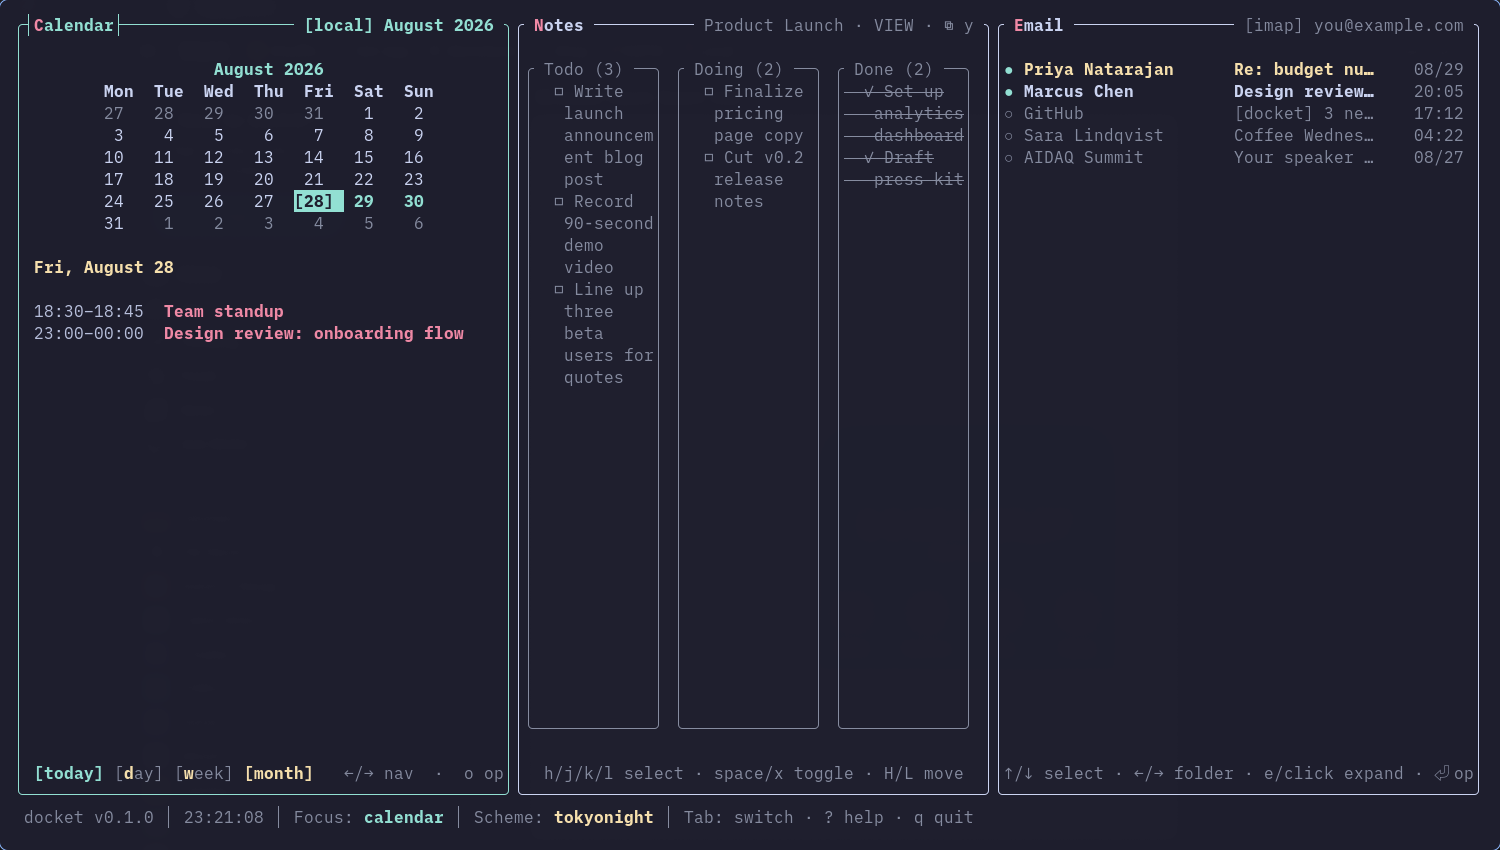
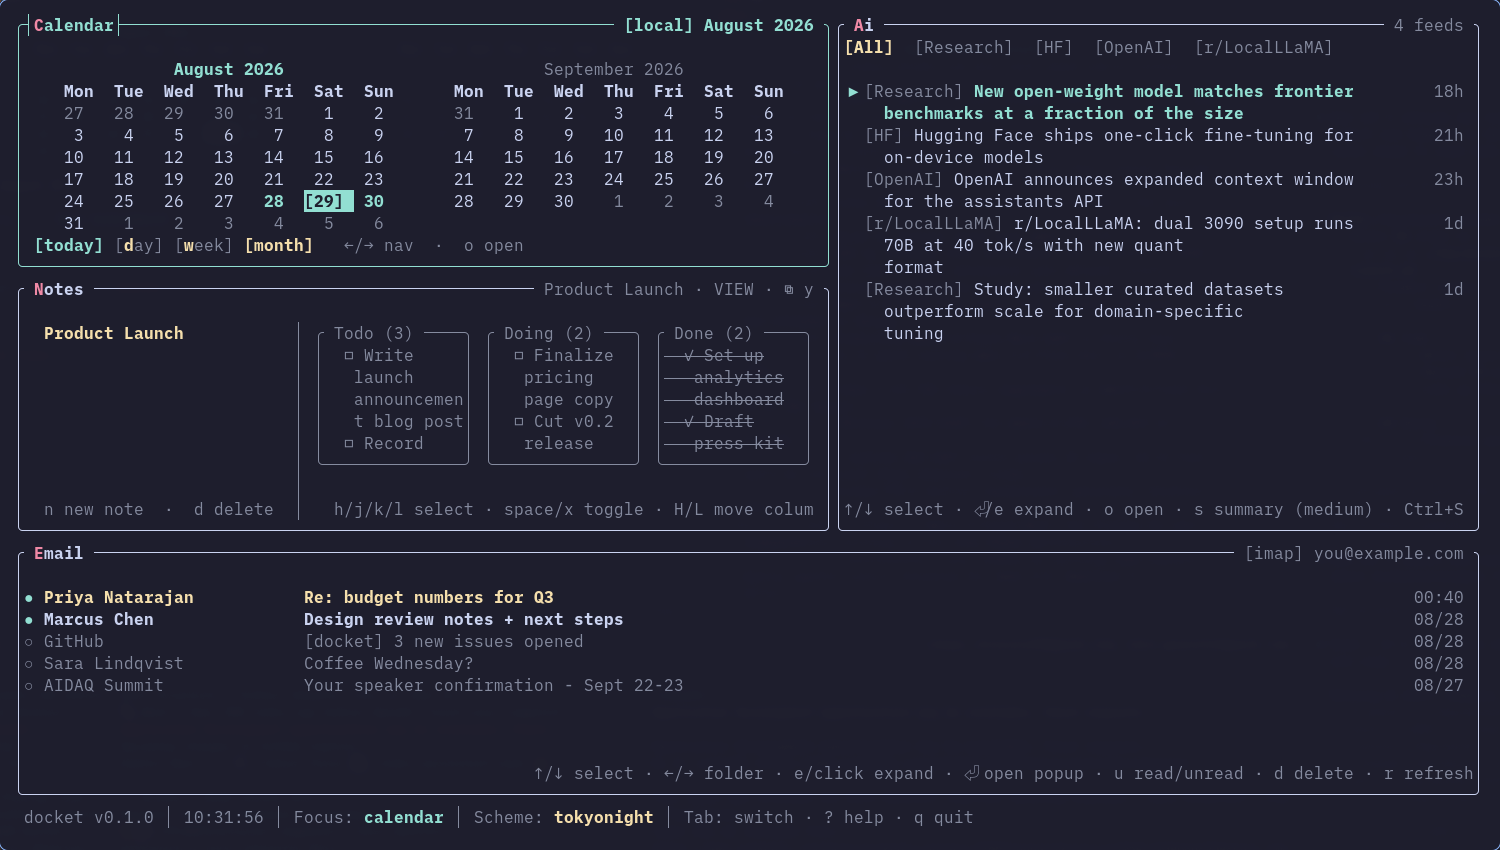
docs+feat: reframe around distilling and moving info, ship a real default layout
README/Cargo.toml description now lead with what docket actually
does going forward - pull sources together, distill with AI, move
what matters between them - rather than customizable widgets/layout,
which drops to a "there if you want it" bullet. Removed the widget
catalogue table and expanded the Origins section back to its fuller,
warmer version.

The shipped default config.toml layout changes from a plain
calendar+news two-pane grid to calendar/AI-news/notes/email, and a
new feeds@ai.toml default seed ships a curated AI/ML feed set - so
a fresh install actually demonstrates the distill-and-move flow
instead of an empty notes/email pane. Mirrored the same shape into
LayoutConfig's Rust-level fallback (used when a hand-edited
config.toml omits [layout] entirely) so the two defaults can't
drift apart, and updated every test that hardcoded the old
calendar+news layout.

Screenshot regenerated to match the new default layout with fake
demo data (calendar, AI feed headlines, a kanban notes board, email
inbox) - no real data involved.

diff --git a/src/config/layout.rs b/src/config/layout.rs
@@ -117,13 +117,18 @@ fn default_span() -> usize {
 }
 
 fn default_columns() -> Vec<u16> {
-    vec![50, 50]
+    vec![56, 44]
 }
 
 fn default_rows() -> Vec<u16> {
-    vec![100]
+    vec![34, 33, 33]
 }
 
+/// Mirrors `config/defaults/config.toml`'s `[layout]` — kept in sync
+/// by hand since one is TOML seeded to disk and the other is this
+/// Rust-level fallback for a hand-edited config.toml that omits
+/// `[layout]` entirely. A calendar/notes/AI-news/email grid, the same
+/// shape a docket dashboard actually gets used for day to day.
 fn default_cells() -> Vec<GridCell> {
     vec![
         GridCell {
@@ -135,11 +140,27 @@ fn default_cells() -> Vec<GridCell> {
             row_span: 1,
         },
         GridCell {
-            widget: Some("news".into()),
+            widget: Some("feeds@ai".into()),
             widgets: None,
             col: 1,
             row: 0,
             col_span: 1,
+            row_span: 2,
+        },
+        GridCell {
+            widget: Some("notes".into()),
+            widgets: None,
+            col: 0,
+            row: 1,
+            col_span: 1,
+            row_span: 1,
+        },
+        GridCell {
+            widget: Some("email".into()),
+            widgets: None,
+            col: 0,
+            row: 2,
+            col_span: 2,
             row_span: 1,
         },
     ]
@@ -228,15 +249,15 @@ mod tests {
     use super::*;
 
     #[test]
-    fn default_layout_has_two_cells() {
+    fn default_layout_has_four_cells() {
         let layout = LayoutConfig::default();
-        assert_eq!(layout.cells.len(), 2);
+        assert_eq!(layout.cells.len(), 4);
         let widgets: Vec<String> = layout
             .cells
             .iter()
             .map(|c| c.primary_widget().unwrap_or_default())
             .collect();
-        assert_eq!(widgets, vec!["calendar", "news"]);
+        assert_eq!(widgets, vec!["calendar", "feeds@ai", "notes", "email"]);
     }
 
     #[test]
@@ -244,18 +265,23 @@ mod tests {
         let layout = LayoutConfig::default();
         let area = Rect::new(0, 0, 100, 40);
         let resolved = layout.resolve(area);
-        assert_eq!(resolved.len(), 2);
+        assert_eq!(resolved.len(), 4);
 
-        // Calendar left, news right.
+        // Calendar top-left, AI feeds top-right (spanning both rows above email).
         assert_eq!(
             resolved[0].cell.primary_widget().as_deref(),
             Some("calendar")
         );
         assert_eq!(resolved[0].area.x, 0);
         assert_eq!(resolved[0].area.y, 0);
-        assert_eq!(resolved[1].cell.primary_widget().as_deref(), Some("news"));
+        assert_eq!(
+            resolved[1].cell.primary_widget().as_deref(),
+            Some("feeds@ai")
+        );
         assert_eq!(resolved[1].area.y, 0);
         assert!(resolved[1].area.x > 0);
+        assert_eq!(resolved[2].cell.primary_widget().as_deref(), Some("notes"));
+        assert_eq!(resolved[3].cell.primary_widget().as_deref(), Some("email"));
     }
 
     #[test]

diff --git a/src/app.rs b/src/app.rs
@@ -1579,7 +1579,7 @@ mod tests {
         );
         assert_eq!(
             widget_at(&app, area, 80, 2).map(|(id, _)| id),
-            Some("news".to_string())
+            Some("feeds@ai".to_string())
         );
         // Status bar row — last row of the area — should be unfocusable.
         assert!(widget_at(&app, area, 50, 39).is_none());
@@ -1592,15 +1592,24 @@ mod tests {
         let mut app = App::new(config);
         assert_eq!(
             app.focus_order,
-            vec!["calendar".to_string(), "news".to_string()]
+            vec![
+                "calendar".to_string(),
+                "feeds@ai".to_string(),
+                "notes".to_string(),
+                "email".to_string(),
+            ]
         );
         assert_eq!(app.focused_widget(), Some("calendar"));
         app.cycle_focus(true);
-        assert_eq!(app.focused_widget(), Some("news"));
+        assert_eq!(app.focused_widget(), Some("feeds@ai"));
+        app.cycle_focus(true);
+        assert_eq!(app.focused_widget(), Some("notes"));
+        app.cycle_focus(true);
+        assert_eq!(app.focused_widget(), Some("email"));
         app.cycle_focus(true);
         assert_eq!(app.focused_widget(), Some("calendar"));
         app.cycle_focus(false);
-        assert_eq!(app.focused_widget(), Some("news"));
+        assert_eq!(app.focused_widget(), Some("email"));
     }
 
     #[cfg(feature = "widgets-all")]
@@ -1800,9 +1809,9 @@ mod tests {
     #[test]
     fn exit_zoom_clears_target_and_restores_focus() {
         let mut app = App::new(Config::default());
-        // Move focus to news (index 1), then zoom.
+        // Move focus to feeds@ai (index 1), then zoom.
         app.cycle_focus(true);
-        assert_eq!(app.focused_widget(), Some("news"));
+        assert_eq!(app.focused_widget(), Some("feeds@ai"));
         app.zoom_enter();
         assert!(app.zoom_target.is_some());
         // Advance focus without exiting zoom — simulates what a retarget call might do.
@@ -1810,7 +1819,7 @@ mod tests {
         app.exit_zoom();
         assert!(app.zoom_target.is_none());
         // exit_zoom restores focus_idx to the zoomed widget's position.
-        assert_eq!(app.focused_widget(), Some("news"));
+        assert_eq!(app.focused_widget(), Some("feeds@ai"));
     }
 
     /// Pressing `z` while already zoomed exits zoom (no nested zoom).

diff --git a/src/config/mod.rs b/src/config/mod.rs
@@ -110,6 +110,8 @@ pub const DEFAULT_CONFIG_TOML: &str = include_str!("defaults/config.toml");
 
 pub const DEFAULT_NEWS_TOML: &str = include_str!("defaults/news.toml");
 
+pub const DEFAULT_FEEDS_AI_TOML: &str = include_str!("defaults/feeds@ai.toml");
+
 pub const DEFAULT_COLORSCHEMES_TOML: &str = include_str!("defaults/colorschemes.toml");
 
 pub const DEFAULT_LLM_TOML: &str = include_str!("defaults/llm.toml");
@@ -135,6 +137,7 @@ pub fn init_default_config() -> Result<PathBuf> {
     seed(&dir.join("config.toml"), DEFAULT_CONFIG_TOML)?;
     seed(&dir.join("calendar.toml"), DEFAULT_CALENDAR_TOML)?;
     seed(&dir.join("news.toml"), DEFAULT_NEWS_TOML)?;
+    seed(&dir.join("feeds@ai.toml"), DEFAULT_FEEDS_AI_TOML)?;
     seed(&dir.join("llm.toml"), DEFAULT_LLM_TOML)?;
 
     let creds = dir.join("credentials");
@@ -189,7 +192,7 @@ mod tests {
     fn default_config_parses() {
         let cfg: Config = toml::from_str(DEFAULT_CONFIG_TOML).expect("default config should parse");
         assert_eq!(cfg.version, 1);
-        assert_eq!(cfg.layout.cells.len(), 2);
+        assert_eq!(cfg.layout.cells.len(), 4);
         assert_eq!(cfg.global.command_key, ":");
     }
 
@@ -197,7 +200,7 @@ mod tests {
     fn minimal_config_uses_defaults() {
         let cfg: Config = toml::from_str("").expect("empty config should parse");
         assert_eq!(cfg.version, 1);
-        assert_eq!(cfg.layout.cells.len(), 2);
+        assert_eq!(cfg.layout.cells.len(), 4);
     }
 
     #[test]
@@ -293,6 +296,15 @@ mod tests {
             assert!(
                 !news.feeds.is_empty(),
                 "news seed should ship example feeds"
+            );
+        }
+        #[cfg(feature = "widget-feeds")]
+        {
+            let ai: crate::widgets::feeds::FeedsConfig =
+                toml::from_str(DEFAULT_FEEDS_AI_TOML).expect("feeds@ai seed should parse");
+            assert!(
+                !ai.feeds.is_empty(),
+                "feeds@ai seed should ship example feeds — it's in the default layout"
             );
         }
         let llm: crate::llm::LlmConfig =

diff --git a/README.md b/README.md
@@ -1,11 +1,12 @@
 # docket
 
-A fast, keyboard-driven terminal dashboard for getting things done —
-calendar, email, notes (with a built-in kanban board), news, system
-resources, and single-source RSS feeds, all in one grid you compose
-yourself. Written in Rust with [ratatui](https://ratatui.rs).
+A fast, keyboard-driven terminal dashboard that pulls your calendar,
+email, and notes into one place, distills them with AI, and moves
+information between them — an email's action items become a Notes
+board card or a Calendar event with one keystroke, not a copy-paste
+detour. Written in Rust with [ratatui](https://ratatui.rs).
 
-![docket dashboard: calendar, a kanban notes board, and an email inbox](assets/screenshot.png)
+![docket dashboard: calendar, an AI news feed, a kanban notes board, and an email inbox](assets/screenshot.png)
 
 No accounts, no telemetry, no OAuth. Everything is plain TOML under
 `~/.config/docket/` — hand-edit it, back it up, sync it with dotfiles,
@@ -21,24 +22,24 @@ docket                          # first run seeds a working default layout
 
 ## Highlights
 
-- **Composable layout** — a grid of cells; any cell can hold a single
-  widget or a **stack** you cycle between with `.` / `,`. Run the same
-  widget kind multiple times (`calendar@work` + `calendar@personal`).
-- **Notes with a kanban board** — any note toggles (`t`) between plain
-  markdown and a colourful board view, columns from `## Heading`
-  lines, cards from `- [ ]` items — still just a `.md` file underneath.
-- **Email with AI actions** — `Enter` pops the full message with
-  one-key summarize / explain / extract. Extracted todos and dates
-  are selectable — add them straight to Notes or Calendar with `space`.
-- **Live config reload** — edit any widget's TOML, see it picked up
-  with no restart.
-- **Nine bundled colour schemes**, live-switchable (`:scheme nord`),
-  plus per-widget colour overrides.
-- **Focus Zoom** (`z`) — enlarge the focused widget over a dimmed
-  backdrop; every widget paints a richer view when it has the room.
+- **Distill, then move it where it's useful** — `Enter` on an email
+  pops the full message with one-key AI summarize / explain /
+  extract. Extracted todos and dates are selectable — `space` adds
+  them straight to Notes or Calendar. No copy-paste detour.
+- **Notes with a kanban board** — the natural landing spot for those
+  todos. Any note toggles (`t`) between plain markdown and a
+  colourful board view, columns from `## Heading` lines, cards from
+  `- [ ]` items — still just a `.md` file underneath.
+- **Calendar** — day/week/month agenda over CalDAV, ICS, or local
+  events, so the dates you pull out of an email land somewhere
+  you'll actually see them again.
 - **No wizard, no cloud** — `docket --init` seeds default TOML
   directly; hand-edit credentials under `credentials/` (0600 perms).
-  Nothing phones home that isn't in the [widget catalogue](#widget-catalogue) below.
+  No accounts, no telemetry, no OAuth, nothing phones home beyond the
+  provider you point a widget at yourself.
+- **Configurable, not the point** — live TOML reload, a composable
+  grid, nine colour schemes, Focus Zoom (`z`). All there when you want
+  to shape it, none of it what docket is actually for.
 
 ---
 
@@ -82,7 +83,8 @@ terminal; force one with `TERMINAL=alacritty …`).
 ## Quickstart
 
 First launch writes `~/.config/docket/config.toml` (a starter
-calendar + news layout) plus a default TOML per widget kind. From there:
+calendar + AI news + notes + email layout) plus a default TOML per
+widget kind. From there:
 
 1. Hand-edit `config.toml`'s `[layout]` to add/remove/rearrange panes.
 2. Edit each widget's own TOML (`calendar.toml`, `news.toml`, …) for
@@ -94,22 +96,6 @@ calendar + news layout) plus a default TOML per widget kind. From there:
 `docket --init` re-runs the seeding step any time (idempotent — only
 fills in what's missing). Press `?` while running for the full
 keybinding overlay.
-
----
-
-## Widget catalogue
-
-| widget | what it does | external services |
-|---|---|---|
-| **Calendar** | day / week / month views with event agenda | CalDAV (iCloud / Fastmail / Nextcloud), ICS/webcal feed, local TOML events |
-| **Notes** | vim-flavoured multi-note editor with undo/redo; toggle any note into a kanban board; `[[Note Name]]` links | none — plain `.md` files |
-| **Email** | unified inbox; `Enter` for a popup with AI summarize/explain/extract, extracted items addable to Notes/Calendar | any IMAP server (app password); LLM provider for AI actions |
-| **News** | RSS/Atom aggregator with topic filters, keyword search, optional LLM summaries | any RSS/Atom feed; LLM provider |
-| **Feeds** | tabbed single-source RSS reader, one tab per source | any RSS/Atom feed; LLM provider |
-| **Resources** | htop-style CPU / memory / top-process view | local only |
-
-Turn a kind off with `--no-default-features` (see [Slim
-builds](#install)), or just leave it out of `[layout]`.
 
 ---
 
@@ -179,9 +165,11 @@ docket --version
 | `~/.cache/docket/` | regenerable caches; swept after 30 days |
 | `~/.config/docket/docket.log` | runtime log |
 
-docket never sends data anywhere not named in the [widget
-catalogue](#widget-catalogue)'s external-services column — no
-telemetry, no OAuth, no docket-owned backend.
+docket never sends data anywhere except the provider you point a
+widget at yourself (a CalDAV server, an IMAP host, an LLM API) — no
+telemetry, no OAuth, no docket-owned backend. See
+[INSTRUCTIONS.md](INSTRUCTIONS.md) for exactly what each provider
+needs.
 
 Credentials are plain TOML, 0600, atomic writes — same convention as
 `aws`/`gcloud`/`gh`/`ssh`. That protects against other local users and
@@ -215,17 +203,29 @@ full picture. Issues and PRs welcome.
 
 ## Origins
 
-docket is a hard fork of [**glint**](https://github.com/ntrospect0/glint)
-by [**ntrospect0**](https://github.com/ntrospect0) — every widget
-engine, the rendering pipeline, the config/cache architecture, is
-ntrospect0's design. glint aims to be general-purpose: whatever mix of
-stocks, weather, calendar, and news you want, composed your way.
-docket exists because I wanted something narrower — opinionated around
-my own work and project management, not a general-purpose canvas. So
-rather than pile options onto glint, I forked it and pointed it one
-direction. This is a standalone project now; it doesn't track glint's
-upstream. If you want the general-purpose dashboard, go use glint —
-this project wouldn't exist without it.
+docket is a hard fork of [**glint**](https://github.com/ntrospect0/glint),
+a fast, keyboard-driven terminal dashboard written by
+[**ntrospect0**](https://github.com/ntrospect0). Every widget engine,
+the rendering pipeline, the config/cache architecture — the whole
+foundation this project stands on — is ntrospect0's design and work.
+glint's own goal is to be a general-purpose, highly adaptable
+dashboard: whatever mix of stocks, weather, calendar, news, and more
+you want, composed your way. That idea, and the care put into making
+it genuinely pleasant to use in a terminal, is what made this fork
+worth doing in the first place — thank you, ntrospect0.
+
+docket exists because I wanted something narrower and more
+opinionated: not a general-purpose canvas of widgets you configure,
+but a dashboard purpose-built around pulling my own information
+sources together, distilling them, and moving what matters between
+them with as little friction as possible. That's a different design
+goal than glint's, not a better one, so rather than pile my opinions
+onto glint as options and flags, I forked it and started shaping it
+toward that one purpose. This is a standalone project going forward —
+it doesn't track glint's upstream changes, and its own direction will
+keep diverging further this way over time. If you want the
+general-purpose dashboard, go use glint; it's great, and this project
+wouldn't exist without it.
 
 ## License
 

diff --git a/INSTRUCTIONS.md b/INSTRUCTIONS.md
@@ -244,6 +244,6 @@ Every `.toml` is plain text — edit in your favourite editor and either restart
 
 ## Further reading
 
-- `README.md` — install, keybindings, color schemes, multi-instance widgets, widget catalogue, external dependencies.
+- `README.md` — install, keybindings, color schemes, configuration.
 - `AGENTS.md` — architecture overview for contributors and AI assistants.
 - https://github.com/nicococo/docket — source, issues, releases.
